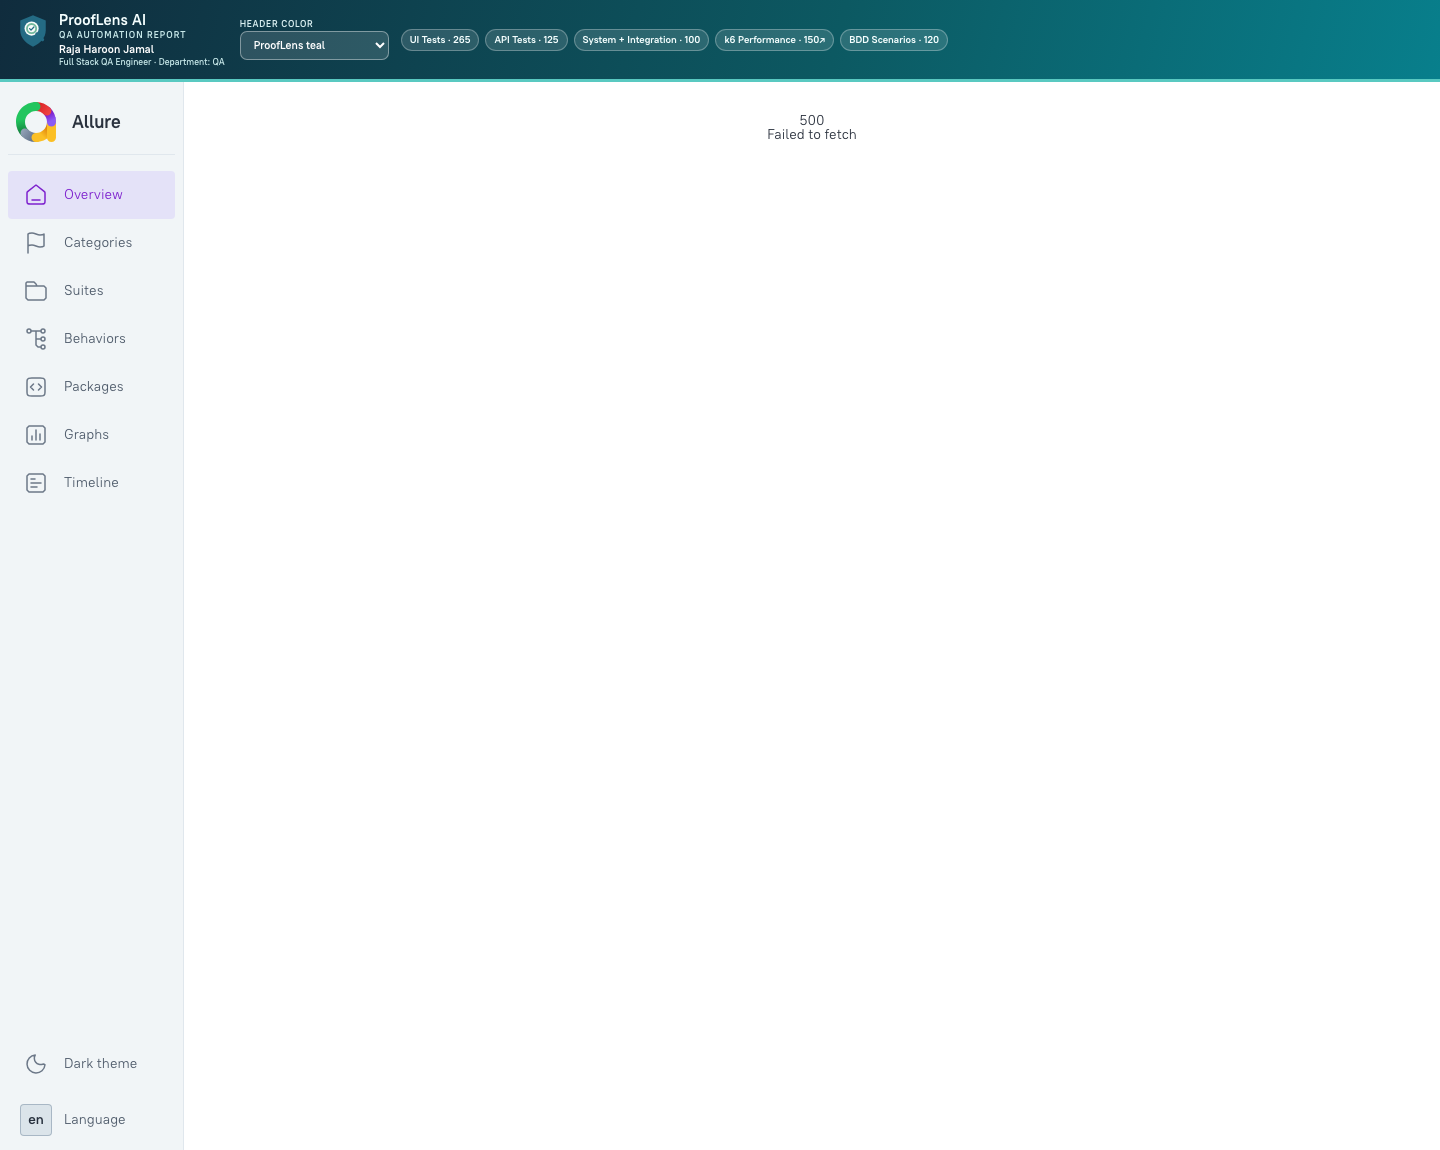
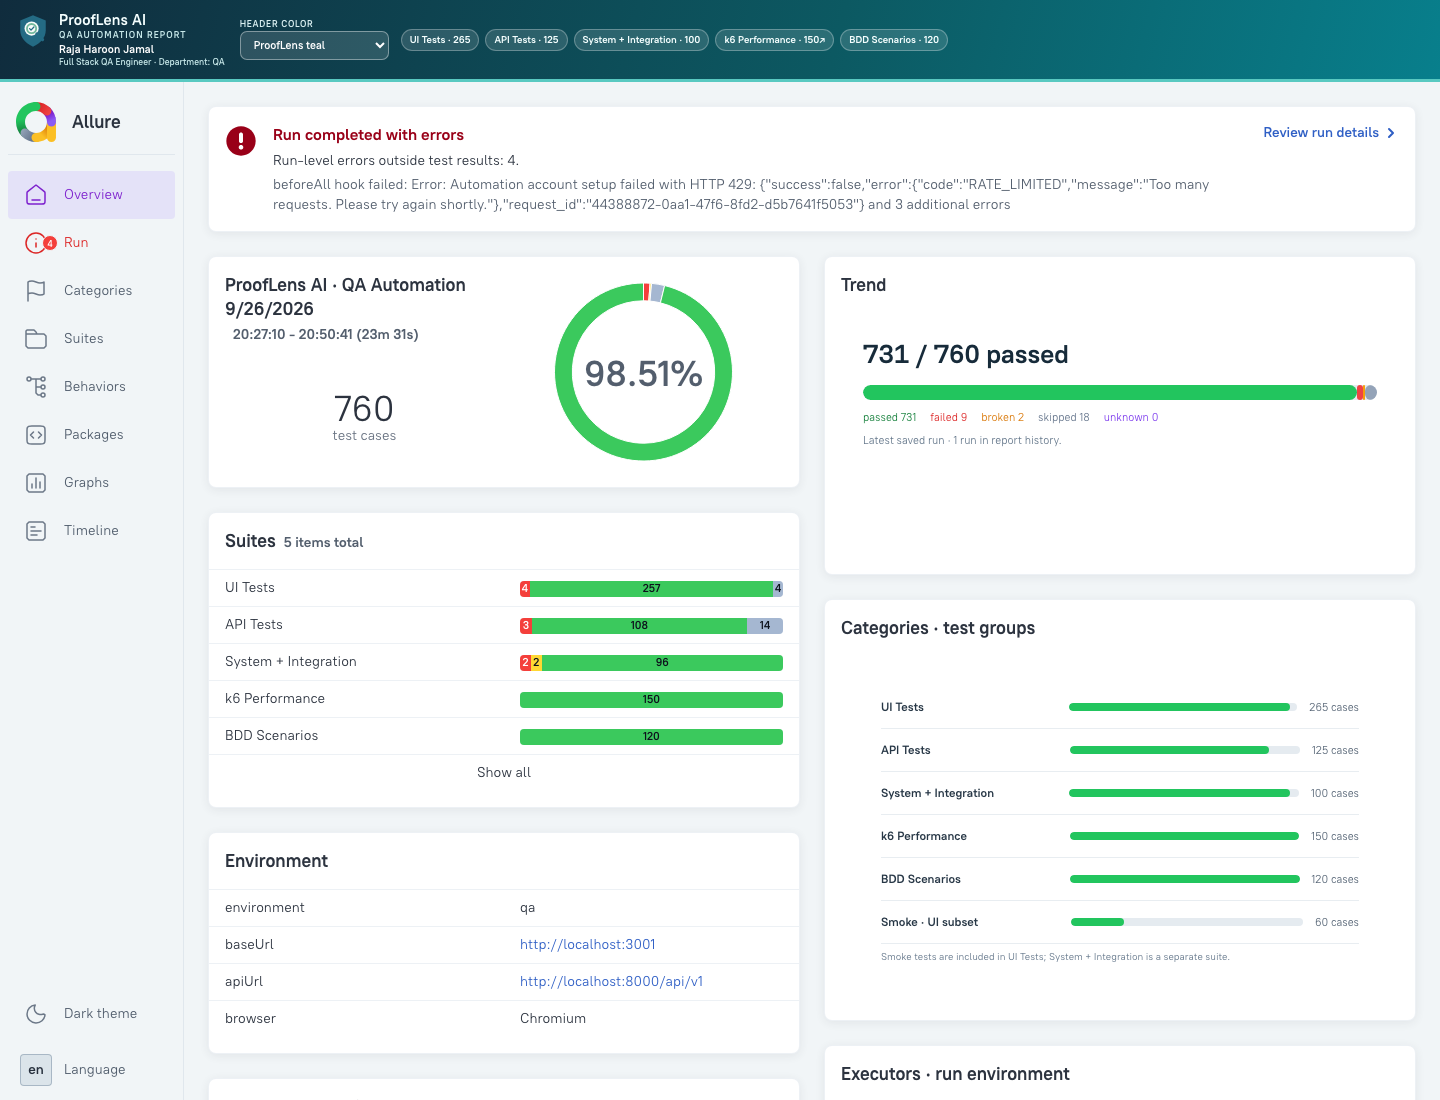
docs: add fresh branded Allure report overview

diff --git a/README.md b/README.md
@@ -1,6 +1,16 @@
+<p align="center">
+  <img src="apps/web/public/prooflens-mark.svg" alt="ProofLens AI logo" width="88">
+</p>
+
 # ProofLens AI — Web and API
 
 **Check Before You Trust.** ProofLens helps people inspect suspicious links, files, images, claims, and messages using explainable signals and evidence.
+
+### Latest Allure report overview
+
+Freshly generated from the latest 760-case QA run. The report includes the run summary, suite breakdown, category groups, and trend overview.
+
+![Fresh Allure QA report overview](apps/web/public/report-screenshots/allure-overview.png)
 
 This is the web project branch (`main`). It contains the Next.js web app, FastAPI backend, browser extension, and shared documentation. The standalone Expo/React Native application, with its own root README, is kept on the `mobile-app` branch.
 
@@ -56,10 +66,6 @@ The K6 overview has a dark, high-contrast dashboard below the shared branded hea
 ### Latest report pages
 
 The screenshots below are captured from the current generated reports. They are also served as static web assets from `apps/web/public/report-screenshots/`.
-
-**Allure overview — current 760-case run across five suites**
-
-![Current Allure QA report overview](apps/web/public/report-screenshots/allure-overview.png)
 
 **K6 performance overview — dark dashboard, metrics, timelines, workload latency, and feature coverage**
 
